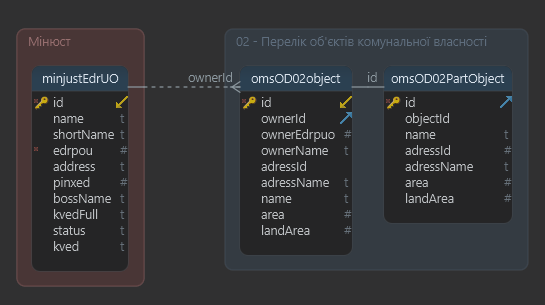
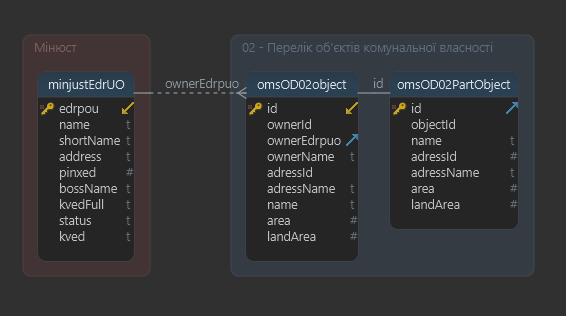
фикс мин и комунал, добавлен КОАТУУ

Changed region(s): [[0.0312, 0.0885, 0.967, 0.9443], [0.4367, 0.0885, 0.967, 0.177]]

diff --git a/ukrstat/opendata/17/README.md b/ukrstat/opendata/17/README.md
@@ -1,0 +1,58 @@
+# Державна служба статистики України
+
+## Класифікатор об'єктів адміністративно-територіального устрою України (КОАТУУ)
+
+## Імпорт опублікованого датасету
+
+- [Скрипт імпорту та нормалізації https://github.com/sokil/koatuu](https://github.com/sokil/koatuu)
+
+## Створення бази даних
+
+```sql
+CREATE SCHEMA opendata;
+
+CREATE TABLE opendata.ukrstatOD17region ( 
+	id                   char(2)  NOT NULL ,
+	name                 varchar(100)  NOT NULL ,
+	CONSTRAINT Pk_ukrstatOD17koatuu_0_id PRIMARY KEY ( id )
+ );
+
+COMMENT ON TABLE opendata.ukrstatOD17region IS 'Довідник областей';
+
+COMMENT ON COLUMN opendata.ukrstatOD17region.id IS 'Level 1 code';
+
+COMMENT ON COLUMN opendata.ukrstatOD17region.name IS 'Назва області або міста';
+
+CREATE TABLE opendata.ukrstatOD17district (
+	id                   char(4)  NOT NULL ,
+	type                 integer  NOT NULL ,
+	regionId             char(2)  NOT NULL ,
+	name                 varchar(100)  NOT NULL ,
+	CONSTRAINT Pk_ukrstatOD17district_id PRIMARY KEY ( id )
+ );
+
+COMMENT ON TABLE opendata.ukrstatOD17district IS 'Райони';
+
+CREATE TABLE opendata.ukrstatOD17locality (
+	koatuu               char(10)  NOT NULL ,
+	type                 integer  NOT NULL ,
+	districtId           char(4)  NOT NULL ,
+	districtType         integer  NOT NULL ,
+	regionId             char(2)  NOT NULL ,
+	name                 varchar(255)  NOT NULL ,
+	CONSTRAINT Pk_ukrstatOD17locality_koatuu PRIMARY KEY ( koatuu )
+ );
+
+CREATE INDEX Idx_ukrstatOD17locality_district ON opendata.ukrstatOD17locality ( districtId );
+
+CREATE INDEX Idx_ukrstatOD17locality_region ON opendata.ukrstatOD17locality ( regionId );
+
+ALTER TABLE opendata.ukrstatOD17district ADD CONSTRAINT Fk_ukrstatOD17district_ukrstatOD17region FOREIGN KEY ( regionId ) REFERENCES opendata.ukrstatOD17region( id );
+
+ALTER TABLE opendata.ukrstatOD17locality ADD CONSTRAINT Fk_ukrstatOD17locality_ukrstatOD17district_district FOREIGN KEY ( districtId ) REFERENCES opendata.ukrstatOD17district( id );
+
+ALTER TABLE opendata.ukrstatOD17locality ADD CONSTRAINT Fk_ukrstatOD17locality_ukrstatOD17region_region FOREIGN KEY ( regionId ) REFERENCES opendata.ukrstatOD17region( id );
+
+```
+
+## Скрипт імпорту даних у базу

diff --git a/README.md b/README.md
@@ -30,7 +30,11 @@
 
 ### Мін'юст
 
-01. [Єдиний державний реєстр юридичних осіб, фізичних осіб - підприємців та громадських формувань](/minjust/01)
+01. [Єдиний державний реєстр юридичних осіб, фізичних осіб - підприємців та громадських формувань](/minjust/opendata/01)
+
+### Держстат
+
+17. [Класифікатор об'єктів адміністративно-територіального устрою України (КОАТУУ)](/ukrstat/opendata/17)
 
 ### Органи місцевого самоврядування
 

diff --git a/_template/README.md b/_template/README.md
@@ -1,6 +1,8 @@
-# Назва реестру
+# Розпорядник
 
-## Імпорт опублікованного датасету
+## Назва реєстру
+
+## Імпорт опублікованого датасету
 
 - [Скрипт імпорту та нормалізації](/путь/від/корня)
 
@@ -21,3 +23,5 @@ CREATE TABLE opendata.minjustEdrUO (
     CONSTRAINT Pk_defolt_id_0 PRIMARY KEY ( id )
  );
 ```
+
+## Скрипт імпорту даних у базу
